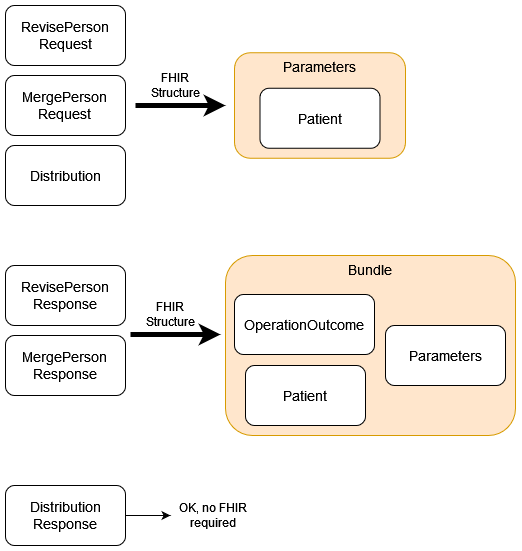
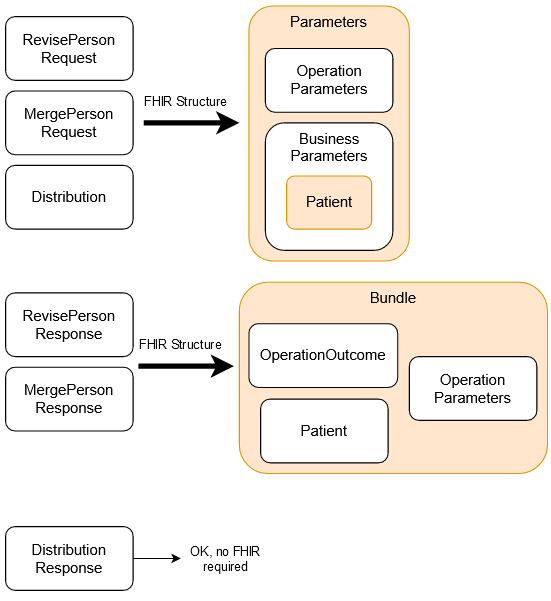
better images and descriptions

Changed region(s): [[0.0, 0.0, 1.0, 0.8022], [0.0, 0.8639, 0.4904, 1.0]]

diff --git a/input/pagecontent/design.md b/input/pagecontent/design.md
@@ -76,9 +76,14 @@ https://..../$MergePatient.Async |
 Suffixes such as History and Async inform the Client Registry FHIR server to perform the operation in a particular way such as returning historical attributes or responding asynchronously.
 
 #### Requests
+
 The body of the request message will vary depending on the business context however all message bodies will consist of at least one Parameter resource which in turn includes two Parameter resources.  The first Parameter.Parameter will hold operation information such as unique identifiers for the message, creation time, sender, receiver, enterer, etc  The second Parameter.Parameter resource will contain all the business information such as search parameters, resources like Patient, etc.
 
+The image below shows the nested Parameters.  The Operation Parameters are for message meta data like timestamps and unique identifiers.  The Business Parameters are for search parameters or resources such as Patient.
+
+<span width="100%">
 ![FHIR Structure - Nested Parameters](design_nestedParameters.png "Nested Parameters")
+</span>
 
 #### Responses
 
@@ -135,7 +140,9 @@ The Get Demographics is a synchronous request-response transaction
 #### FHIR Structure for Searches
 Below is a figure that shows the FHIR structure for the two searches.  The request is a Parameter resource and the response is a searchset Bundle with 0 or more Patients and one OperationOutcome.  The OperationOutcome is where you'll find warnings and errors regarding the search.
 
+<span width="100%">
 ![FHIR Structure - Searches](searches_fhir.png "FHIR Structure for Searches")
+</span>
 
 Client Registry FHIR searches do not support parameters found in the FHIR international specification: _content, _id, _lastUpdated, _profile, _query, _security, _source, _tag, _text and _filter.  As well modifiers, prefixes, search hierarchies, chained parameters, reverse chaining, sorting, paging, includes, revincludes, 
 
@@ -233,6 +240,15 @@ If the demographics are updated at the same time as the merge, the demographic u
 
 The record the POS is keeping must be in the EMPI prior to the merge or the Merge Person message will fail. This record is known as the ‘survivor’ record.
 
+### FHIR Structure for Revise, Merge and Distributions
+
+The FHIR structure is the same for Merge, Revise and Distributions.  Responses (if required) are wrapped in collection Bundles and include OperationOutcome, Operation Parameters and Patient resources.
+
+<span width="100%">
+![FHIR Structure - Revise_Merge](revise_merge_fhir.png "FHIR Structure for Revise and Merge")
+</span>
+
+
 ### Asynchronous Operations
 The asynchronous pattern for Revise and Merge Patient follow the same pattern as V3.  That is 
 
@@ -244,9 +260,7 @@ The interactions are associated by the unique message id in the Parameters resou
 
 >What is the response end point?  Will it be https://..../$RevisePatient.Async ?
 
-![FHIR Structure - Revise_Merge](revise_merge_fhir.png "FHIR Structure for Revise and Merge")
-
-### Newborn
+### Revise Patient Newborn
 
 Newborn events use the RevisePatient.Newborn operation; a parameter, 'mothersPHN' is included.
 
@@ -254,27 +268,29 @@ Newborn events use the RevisePatient.Newborn operation; a parameter, 'mothersPHN
 
 Merge events use the MergePatient operation; a parameter, 'relatedPerson' is included to identify the non-survivors.
 
-### Revise Patient IN
+### Parameters for Revise and Merge
+
+#### Revise Patient IN
 
 Parameter Name|Parameter Value|Comments
 :---|:---|:---
 patient|Patient resource|A Patient resource
 
-### Revise Patient Newborn IN
+#### Revise Patient Newborn IN
 
 Parameter Name|Parameter Value|Comments
 :---|:---|:---
 patient|Patient resource|A Patient resource representing newborn
 mothersPHN|parameter.value[string]|The mothers PHN
 
-### Merge Patient IN
+#### Merge Patient IN
 
 Parameter Name|Parameter Value|Comments
 :---|:---|:---
 patient|Patient resource|A Patient resource that for Merge is the surviving client
 relatedPerson|parameter.value[Identifier]|<span style="color:red">Is this Identifier or something else?</span>
 
-### Revise Patient OUT Bundle
+#### Revise Patient OUT Bundle
 
 The Bundle type is collection.
 
@@ -284,7 +300,7 @@ Patient resource|A Patient resource
 OperationOutcome|Information about the operation; warnings and errors.
 Parameters resource|Any name value pair parameters such as message creation date and unique identifiers
 
-### Revise Patient Newborn OUT Bundle
+#### Revise Patient Newborn OUT Bundle
 
 The Bundle type is collection.
 
@@ -294,7 +310,7 @@ Patient resource|A Patient resource, the newborn
 OperationOutcome|Information about the operation; warnings and errors.
 Parameters resource|Any name value pair parameters such as message creation date and unique identifiers
 
-### Merge Patient OUT Bundle
+#### Merge Patient OUT Bundle
 
 The Bundle type is collection.
 
